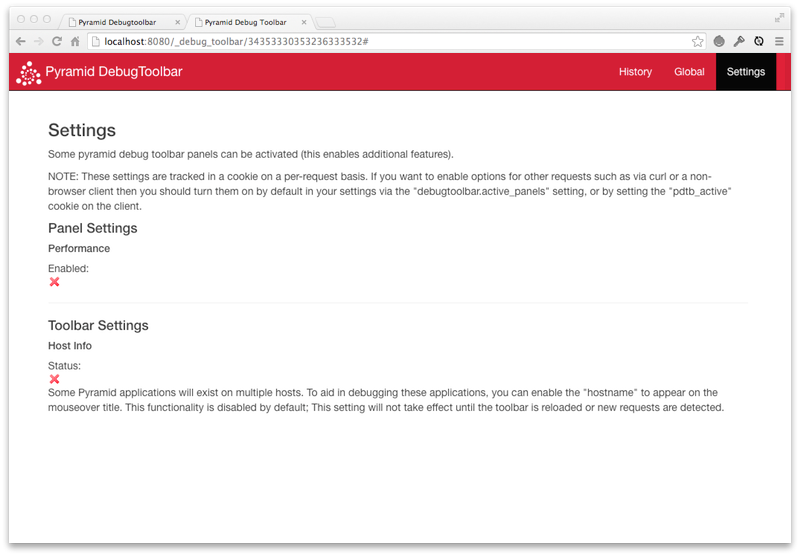
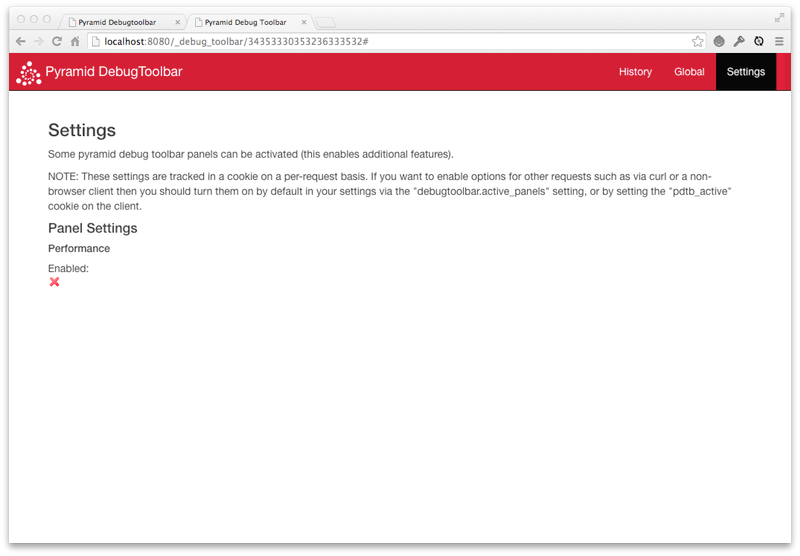
removed cookie setting for debug control removed docs regarding settings panel fixed link in docs

Changed region(s): [[0.0625, 0.5809, 0.9062, 0.7644]]

diff --git a/src/pyramid_debugtoolbar/static/toolbar/toolbar.js b/src/pyramid_debugtoolbar/static/toolbar/toolbar.js
@@ -1,7 +1,4 @@
 var COOKIE_NAME_ACTIVE = 'pdtb_active';
-var COOKIE_NAME_HOSTINFO = 'pdtb_hostinfo';
-var HOSTINFO_ACTIVE = undefined;  // used to template the title
-
 
 function toggle_content(elem) {
   if (elem.is(':visible')) {
@@ -85,7 +82,7 @@ $(function () {
       var request_id = item[0];
       var active = item[2];
 
-      var title = HOSTINFO_ACTIVE ? (details.path+' ('+details.host+')') : details.path;  // see function `hostinfo_set`
+      var title = details.host + details.path;
       html += '<li class="'+active+'"><a href="'+window.DEBUG_TOOLBAR_ROOT_PATH+request_id+'" title="'+title+'">';
       html += '<span class="badge pull-right _'+details.status_code+'">'+details.status_code+'</span>';
       html += details.method;
@@ -244,33 +241,3 @@ $(function() {
 	});
 
 });
-
-
-/*
-To ease development of requests on multiple hosts, you can enable the `hostname` to appear on the mouseover title.
-This is disabled by default.
-*/
-var _display = $('#settings-host_info');
-function hostinfo_set(is_active){
-	if (is_active){
-		HOSTINFO_ACTIVE = true;
-		$.cookie(COOKIE_NAME_HOSTINFO, '1', {path: '/'} );
-		_display.addClass('active')
-		_display.removeClass('inactive')
-	} else {
-		HOSTINFO_ACTIVE = false;
-		$.cookie(COOKIE_NAME_HOSTINFO, null, {path: '/', expires: -1});
-		_display.addClass('inactive')
-		_display.removeClass('active')
-	}
-}
-_display.click(function(){
-	if (HOSTINFO_ACTIVE){hostinfo_set(false);}
-	else {hostinfo_set(true);}
-});
-function _hostinfo_initialize(){
-	// check the cookie
-	var _active = $.cookie(COOKIE_NAME_HOSTINFO);
-	hostinfo_set(_active);
-}
-_hostinfo_initialize();

diff --git a/docs/index.rst b/docs/index.rst
@@ -343,7 +343,7 @@ Most panels do not support any extra active features and need not be
 explicitly activated. However, some panels support an optional
 :attr:`~pyramid_debugtoolbar.panel.DebugPanel.is_active` state in which they
 will do some extra work. For example, the
-:class:`~pyramid_debugtoolbar.panels.performance.PerformanceDebugPanel``
+:ref:`PerformanceDebugPanel <panel_performance>`
 will not do profiling of your requests unless it has been activated.
 
 This activation can be controlled on a per-request basis by setting the
@@ -512,17 +512,6 @@ An internal profiler can be enabled under the :guilabel:`Settings` tab in the na
 Click the red :guilabel:`X` mark to enable the profiler.
 When the mark is a green :guilabel:`check`, the request will be profiled and profiling information will be gathered and displayed on the :guilabel:`Performance` panel output.
 See :ref:`Performance panel <panel_performance>`.
-
-Request Hostname
-~~~~~~~~~~~~~~~~
-
-Some Pyramid applications will exist on multiple hosts. To aid in debugging
-these applications, you can enable the ``hostname`` to appear on mouseover
-titles of the :guilabel:`Requests` selector column on the left side of the toolbar, instead
-of the path. This functionality is disabled by default. This setting will not
-take effect until the toolbar is reloaded or new requests are detected.
-			
-.. image:: request_hostname.png
 
 Exception Handling
 ------------------
